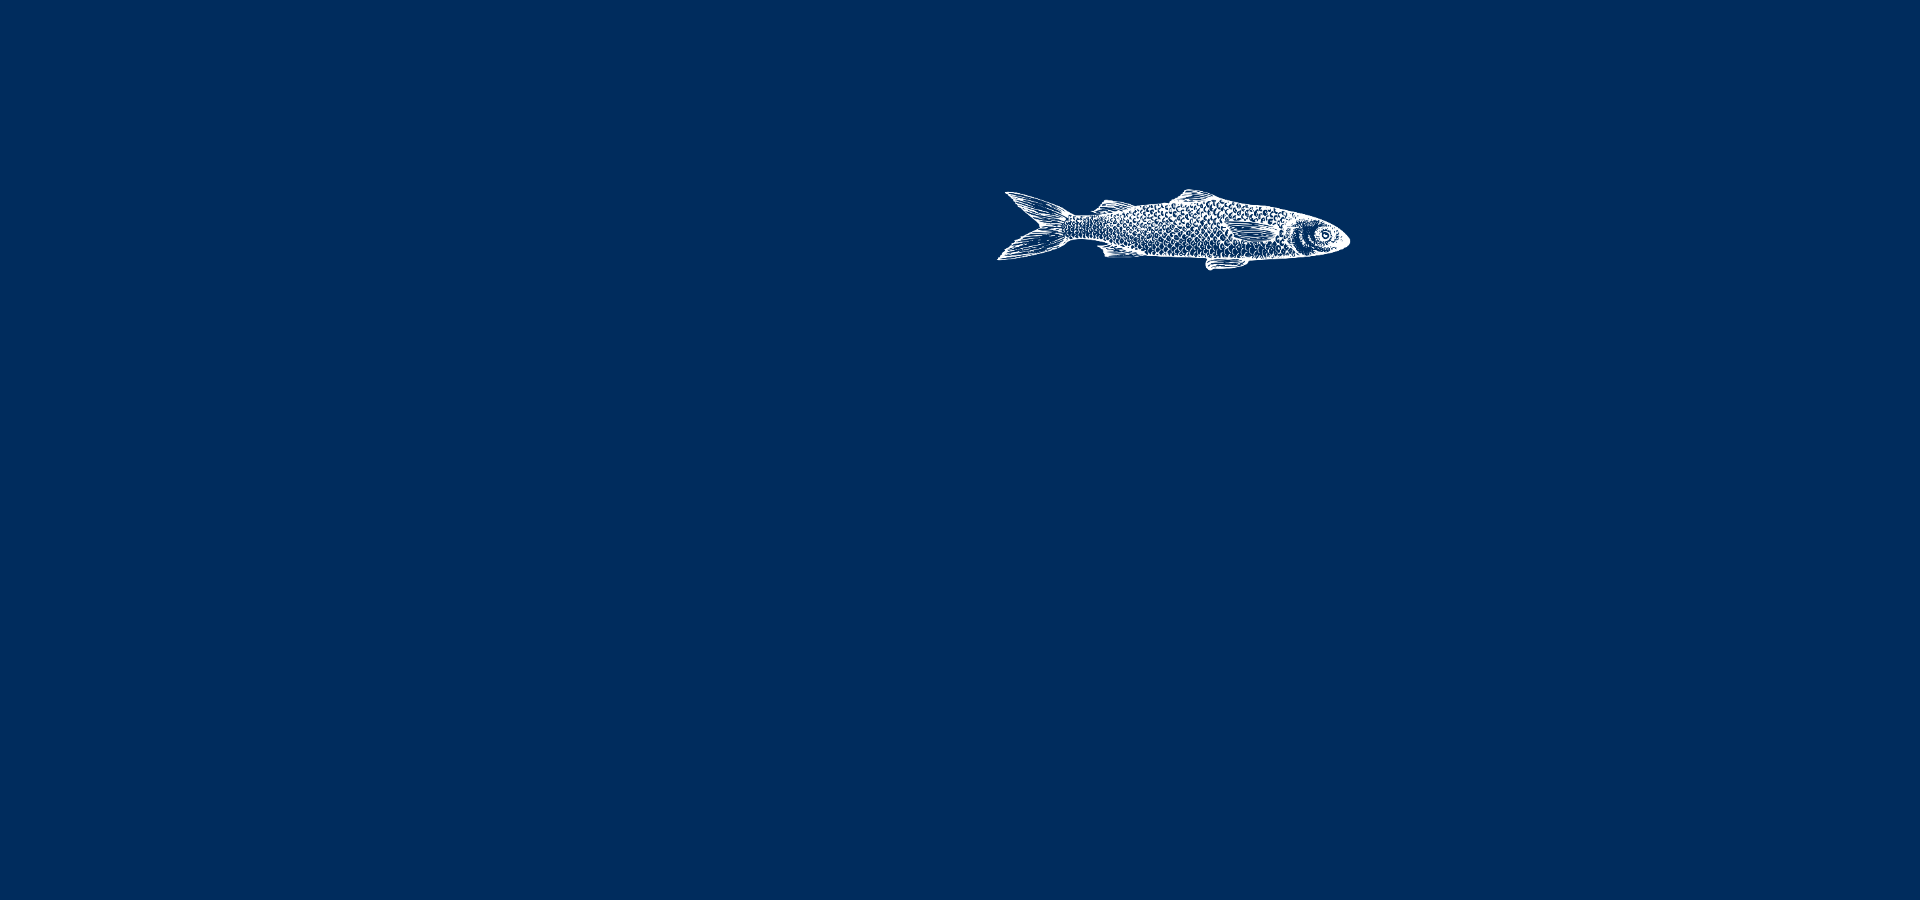
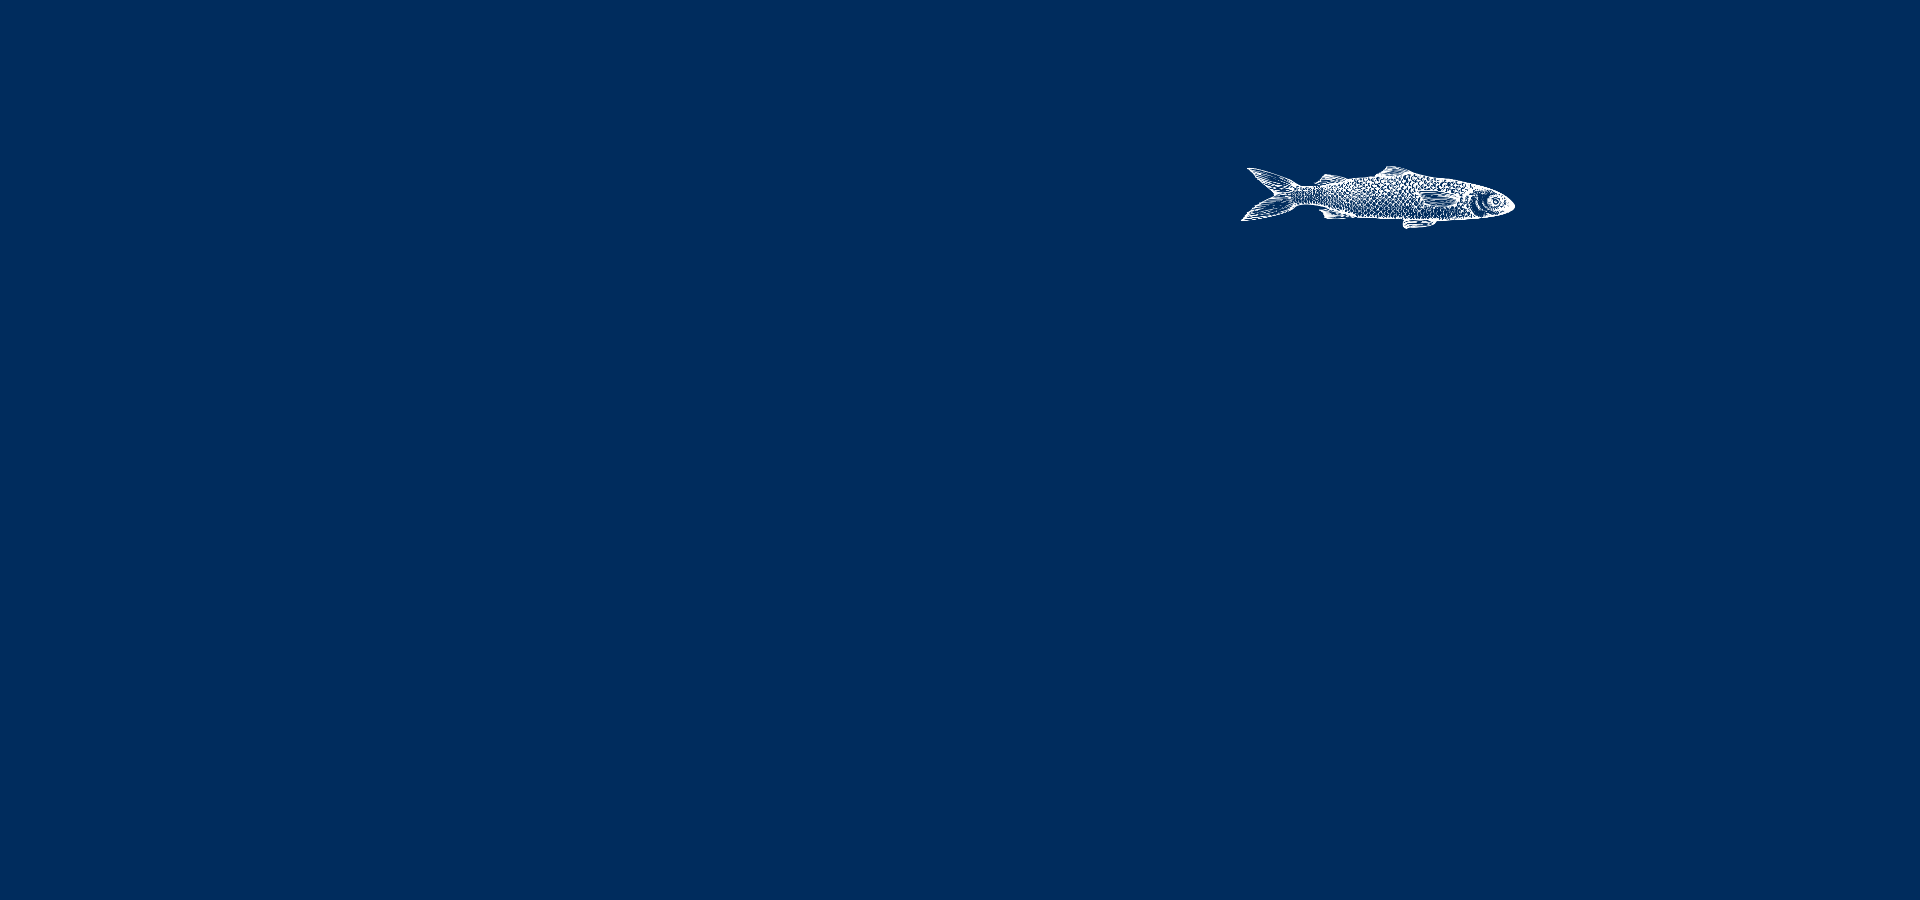
Backgrounds

Changed region(s): [[0.5312, 0.1867, 0.8125, 0.3111]]

diff --git a/src/app/globals.css b/src/app/globals.css
@@ -620,7 +620,7 @@ h3 { line-height: 1; }
 /* Arte decorativa da prova social: o centro fica livre para a leitura. */
 .reviews-section {
   background-color: #fff;
-  background-image: url("/images/pages/home/Sections%20Backgrounds/Seafood%20Review%20Section.png");
+  background-image: url("/images/pages/home/Sections%20Backgrounds/Seafood%20Sections.png");
   background-position: center center;
   background-repeat: no-repeat;
   background-size: 100% 100%;
@@ -633,7 +633,10 @@ h3 { line-height: 1; }
 @media (max-width: 768px) {
   .reviews-section {
     background-color: #fff;
-    background-image: none;
+    background-image: url("/images/pages/home/Sections%20Backgrounds/Mobile%20Seafood%20Sections%20%281080%20x%201600%20px%29.png");
+    background-position: center center;
+    background-repeat: no-repeat;
+    background-size: 100% 100%;
   }
 }
 
